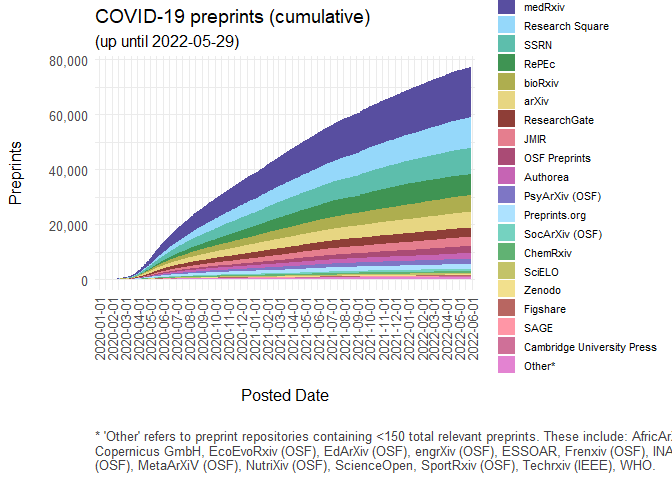
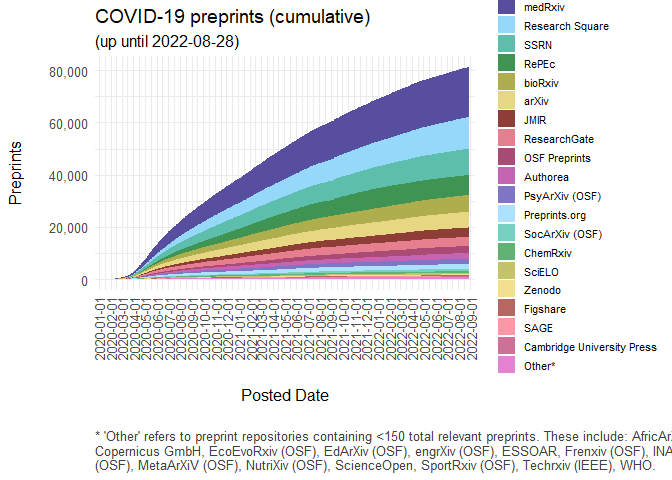
Rerun update with knitr (2022-09-03 for preprints posted up until 2022-08-28)

diff --git a/covid19_preprints.md b/covid19_preprints.md
@@ -440,7 +440,9 @@ processed further to extract the needed information.
 ``` r
 parseDataCiteDescription <- function(x) {
   if(length(x) > 0) {
-    if(x$descriptionType == "Abstract") {
+    #descriptionType and description are character vectors, spanning content of description field
+    #testing (2022-08) found that selecting on "Abstract" could be omitted
+    if("Abstract" %in% x$descriptionType) {
       return(str_to_sentence(str_c(x$description, collapse = "; ")))
     } else {
       return(NA_character_)
@@ -459,7 +461,10 @@ parseDataCitePreprints <- function(item) {
     title = map_chr(item$data$attributes$titles, 
                     ~ str_to_sentence(str_c(.x$title, collapse = "; "))),
     abstract = map_chr(item$data$attributes$descriptions, 
-                          function(x) parseDataCiteDescription(x)))
+                          function(x) parseDataCiteDescription(x)),
+    abstract_length = map_int(item$data$attributes$descriptions,
+                              function(x) length(x))
+    )
 }
 
 dc_preprints_df <- map_df(dc_preprints, parseDataCitePreprints) %>%
@@ -620,7 +625,7 @@ covid_preprints_update <- covid_preprints_update %>%
          title = str_squish(title))
 ```
 
-#Remove duplicate records (incl. versions) on same preprint server
+\#Remove duplicate records (incl. versions) on same preprint server
 
 ``` r
 covid_preprints_previous <- read_csv("data/covid19_preprints.csv")
